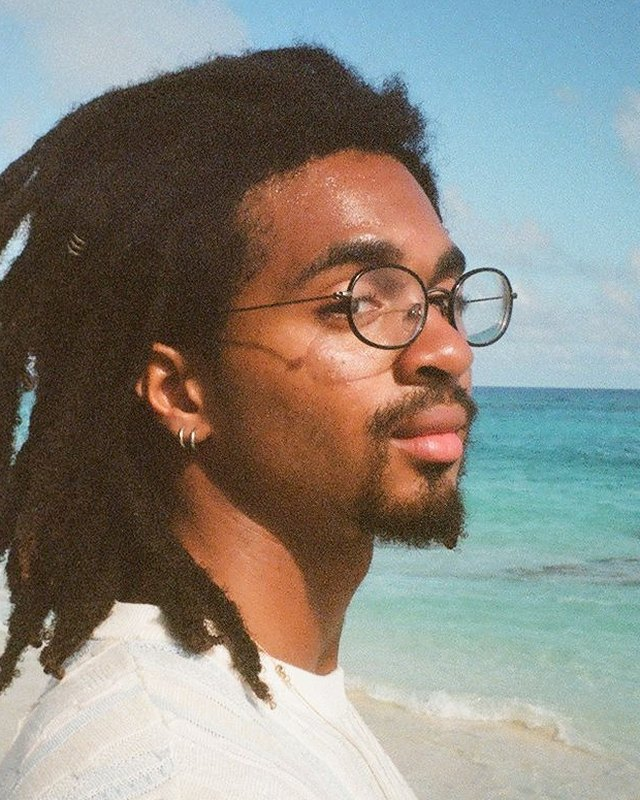
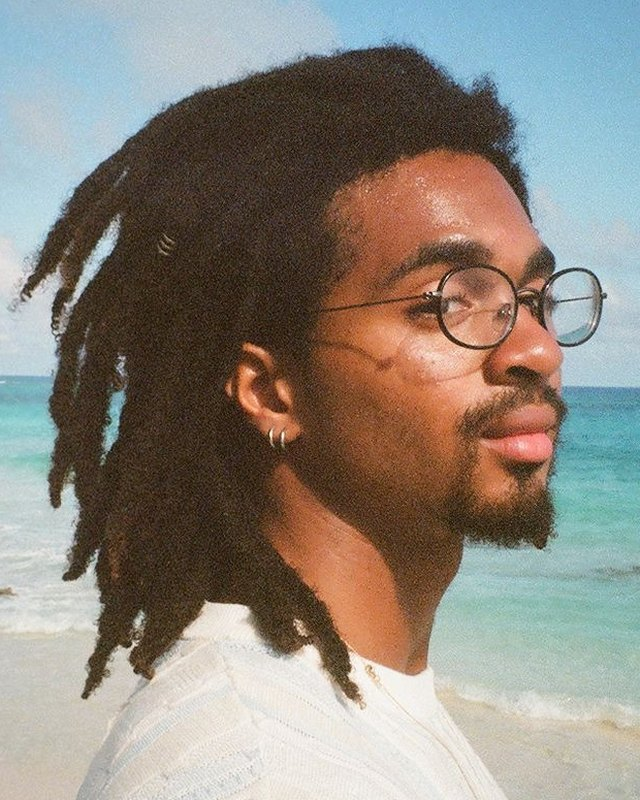
preview: Headshots shifted so hair isn't clipped; Sudanist 5th; partner last row centred
Yusef, Basma and Aicha moved right in their frames (crop window shifted left, zoom unchanged). The Sudanist moved to 5th in the partners list. Partner grid uses a 4/6-column track so a short last row is centred on tablet and desktop. EN and AR.

diff --git a/app/components/about/Partners.tsx b/app/components/about/Partners.tsx
@@ -34,9 +34,20 @@ export function Partners({ t }: { t: SiteContent["about"]["partners"] }) {
         <Reveal className="reveal-lg mb-10">
           <SectionHeading heading={t.heading} id="partners" />
         </Reveal>
-        <ul className="grid sm:grid-cols-2 lg:grid-cols-3 gap-3">
-          {t.items.map((p, i) => (
-            <Reveal as="li" key={p.name} className="rounded-2xl border border-ink/10 bg-sand-50/60 reveal" delay={i * 60}>
+        {/* Grid of half/third-width tiles on a 4/6-column track, so a short last
+            row can be centred: a lone tile on tablets, two tiles on desktop. */}
+        <ul className="grid sm:grid-cols-4 lg:grid-cols-6 gap-3">
+          {t.items.map((p, i) => {
+            const n = t.items.length;
+            const centreSm = n % 2 === 1 && i === n - 1 ? "sm:col-start-2" : "";
+            const centreLg = n % 3 === 2 && i === n - 2 ? "lg:col-start-2" : n % 3 === 1 && i === n - 1 ? "lg:col-start-3" : "lg:col-start-auto";
+            return (
+            <Reveal
+              as="li"
+              key={p.name}
+              className={`rounded-2xl border border-ink/10 bg-sand-50/60 reveal sm:col-span-2 ${centreSm} ${centreLg}`}
+              delay={i * 60}
+            >
               {p.href ? (
                 <a
                   href={p.href}
@@ -54,7 +65,8 @@ export function Partners({ t }: { t: SiteContent["about"]["partners"] }) {
                 </div>
               )}
             </Reveal>
-          ))}
+            );
+          })}
         </ul>
       </div>
     </section>

diff --git a/app/content/ar.ts b/app/content/ar.ts
@@ -368,13 +368,13 @@ export const ar: DeepPartial<SiteContent> = {
         { name: "SIMA Studios", href: "https://simastudios.org/", logo: "/partners/sima-studios.png" },
         { name: "معهد Sundance", href: "https://www.sundance.org/", logo: "/partners/sundance-institute.png" },
         { name: "الدرع الأزرق الدولي", href: "https://theblueshield.org/", logo: "/partners/blue-shield-international.png" },
+        { name: "The Sudanist", href: "https://thesudanist.com/", logo: "/partners/the-sudanist.png" },
         { name: "مجلس الفنون في برمودا", href: "https://culture.bm/contributions-awards/bermuda-arts-council/", logo: "/partners/bermuda-arts-council.png" },
         { name: "الجامعة الأمريكية بالقاهرة", href: "https://www.aucegypt.edu/", logo: "/partners/auc.svg" },
         { name: "Culture House", href: "https://culturehouse.org.uk/", logo: "/partners/culture-house.svg" },
         { name: "سوداك (SUDAAK)", href: "https://sudaak.org/", logo: "/partners/sudaak.png" },
         { name: "Sudan Human Rights Hub", href: "https://sudanhrh.org/", logo: "/partners/sudan-human-rights-hub.png" },
         { name: "كلام أفلام", href: "https://www.instagram.com/kalamaflam.fr/", logo: "/partners/kalam-aflam.png" },
-        { name: "The Sudanist", href: "https://thesudanist.com/", logo: "/partners/the-sudanist.png" },
       ],
     },
     contact: {

diff --git a/app/content/en.ts b/app/content/en.ts
@@ -404,13 +404,13 @@ export const en = {
         { name: "SIMA Studios", href: "https://simastudios.org/", logo: "/partners/sima-studios.png" },
         { name: "Sundance Institute", href: "https://www.sundance.org/", logo: "/partners/sundance-institute.png" },
         { name: "Blue Shield International", href: "https://theblueshield.org/", logo: "/partners/blue-shield-international.png" },
+        { name: "The Sudanist", href: "https://thesudanist.com/", logo: "/partners/the-sudanist.png" },
         { name: "Bermuda Arts Council", href: "https://culture.bm/contributions-awards/bermuda-arts-council/", logo: "/partners/bermuda-arts-council.png" },
         { name: "The American University in Cairo", href: "https://www.aucegypt.edu/", logo: "/partners/auc.svg" },
         { name: "Culture House", href: "https://culturehouse.org.uk/", logo: "/partners/culture-house.svg" },
         { name: "SUDAAK", href: "https://sudaak.org/", logo: "/partners/sudaak.png" },
         { name: "Sudan Human Rights Hub", href: "https://sudanhrh.org/", logo: "/partners/sudan-human-rights-hub.png" },
         { name: "Kalam Aflam", href: "https://www.instagram.com/kalamaflam.fr/", logo: "/partners/kalam-aflam.png" },
-        { name: "The Sudanist", href: "https://thesudanist.com/", logo: "/partners/the-sudanist.png" },
       ],
     },
     contact: {
